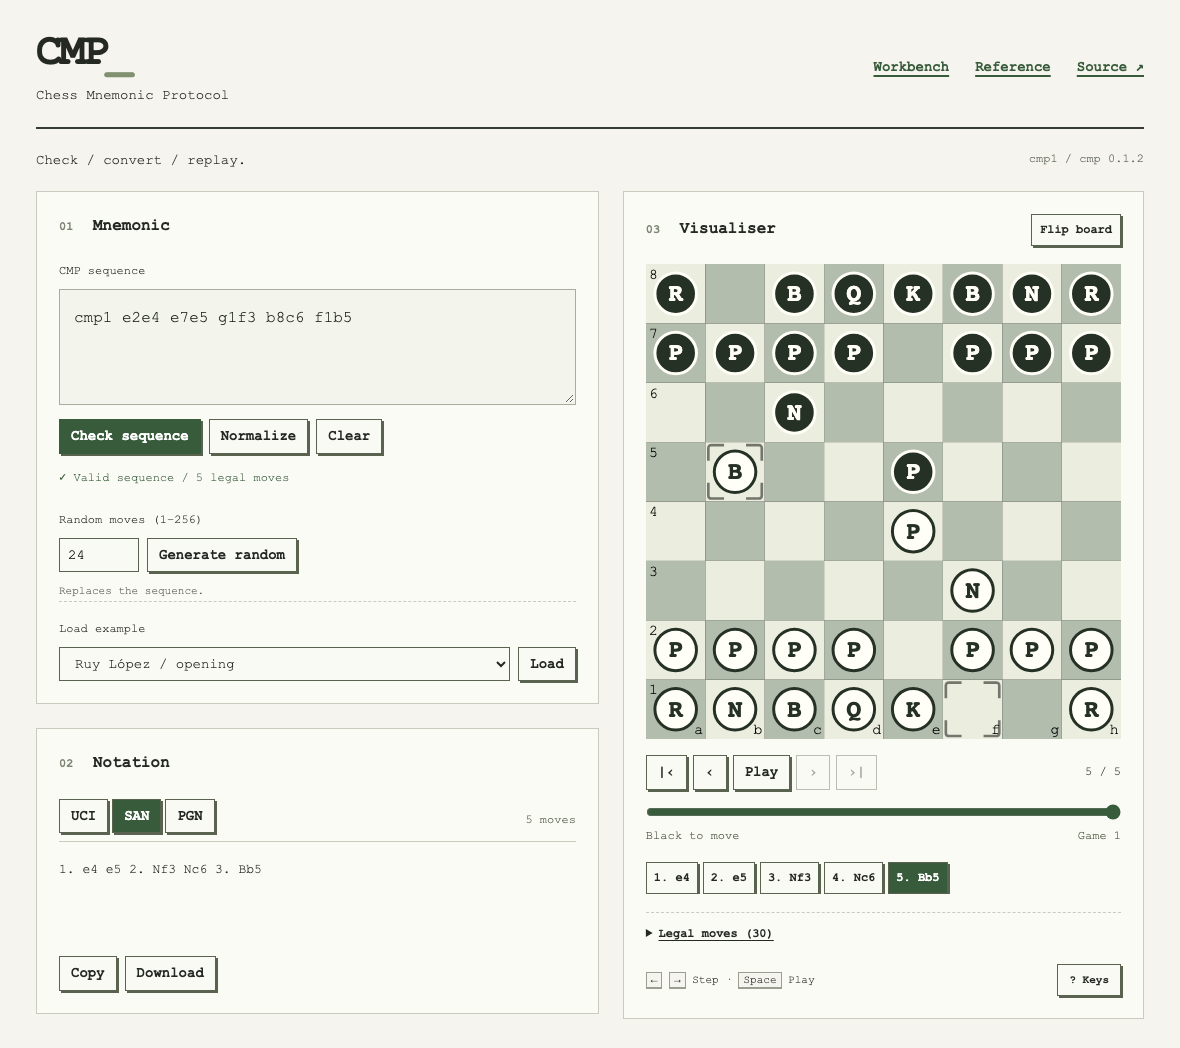
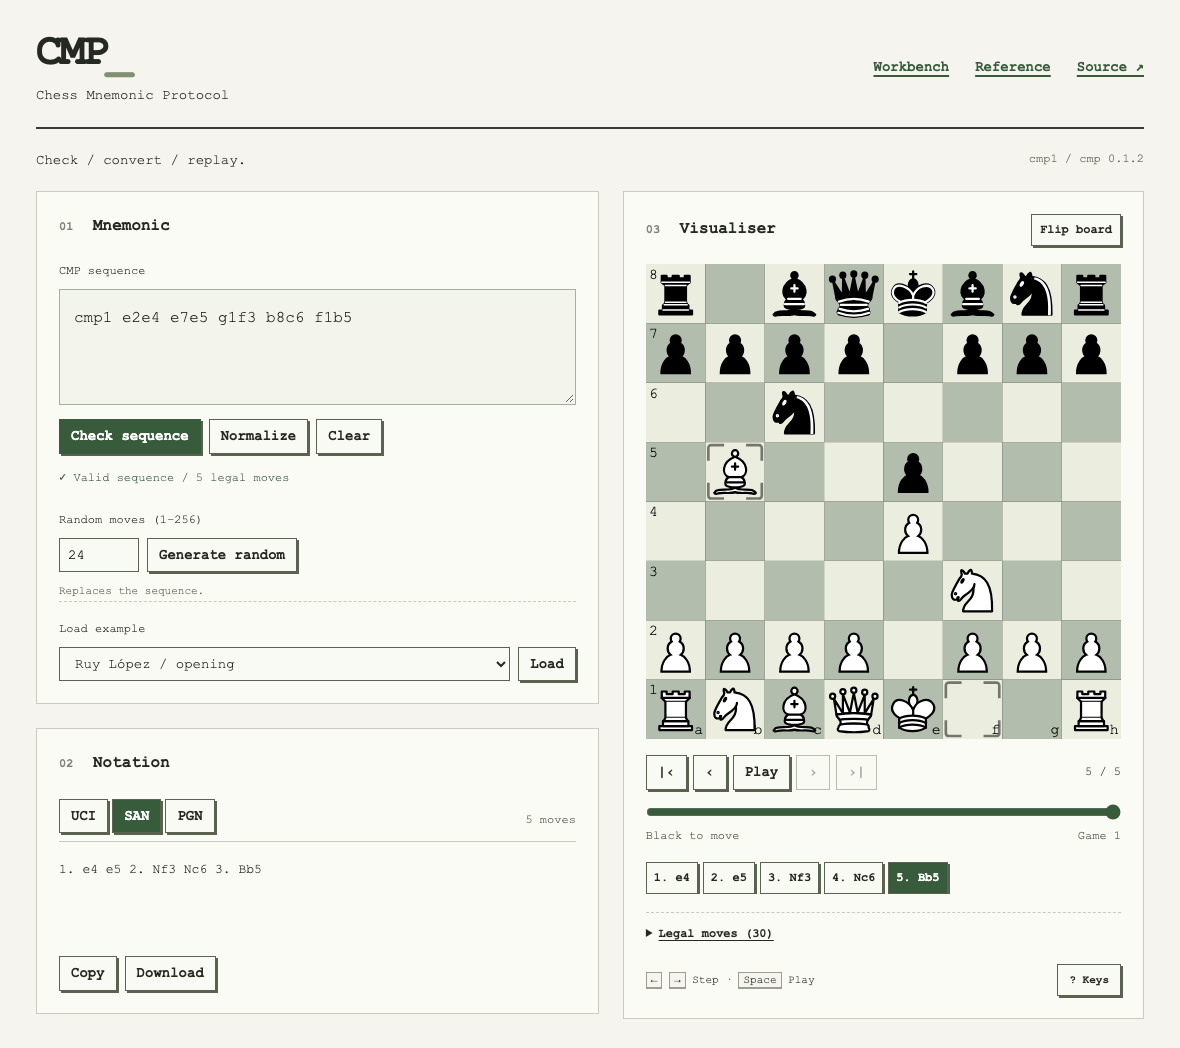
fix: restore chess pieces

diff --git a/src/main.js b/src/main.js
@@ -7,7 +7,7 @@ import {
   Markers,
   MARKER_TYPE,
 } from 'cm-chessboard/src/extensions/markers/Markers.js';
-import pieces from './pieces.svg?url&no-inline';
+import pieces from 'cm-chessboard/assets/pieces/standard.svg?url';
 import markerSprite from 'cm-chessboard/assets/extensions/markers/markers.svg?url&no-inline';
 import './style.css';
 import { browserMode, run } from './client.js';

diff --git a/README.md b/README.md
@@ -98,10 +98,14 @@ Credits
 * [FastAPI][fastapi] serves the local API. MIT license.
 * [Vite][vite] builds and serves the frontend. MIT license.
 
-The letter pieces in src/pieces.svg are drawn for this project.
+The [standard chess pieces][pieces] are by Cburnett and Rfc1394, adapted
+by Stefan Haack for cm-chessboard. They use the CC BY-SA 3.0 license.
+The original attribution and license are included in the SVG file.
 
 [cmp]: https://github.com/julesora/cmp
 [board]: https://github.com/shaack/cm-chessboard
 [pyodide]: https://github.com/pyodide/pyodide
 [fastapi]: https://github.com/fastapi/fastapi
 [vite]: https://github.com/vitejs/vite
+
+[pieces]: https://commons.wikimedia.org/wiki/Category:SVG_chess_pieces/Standard
